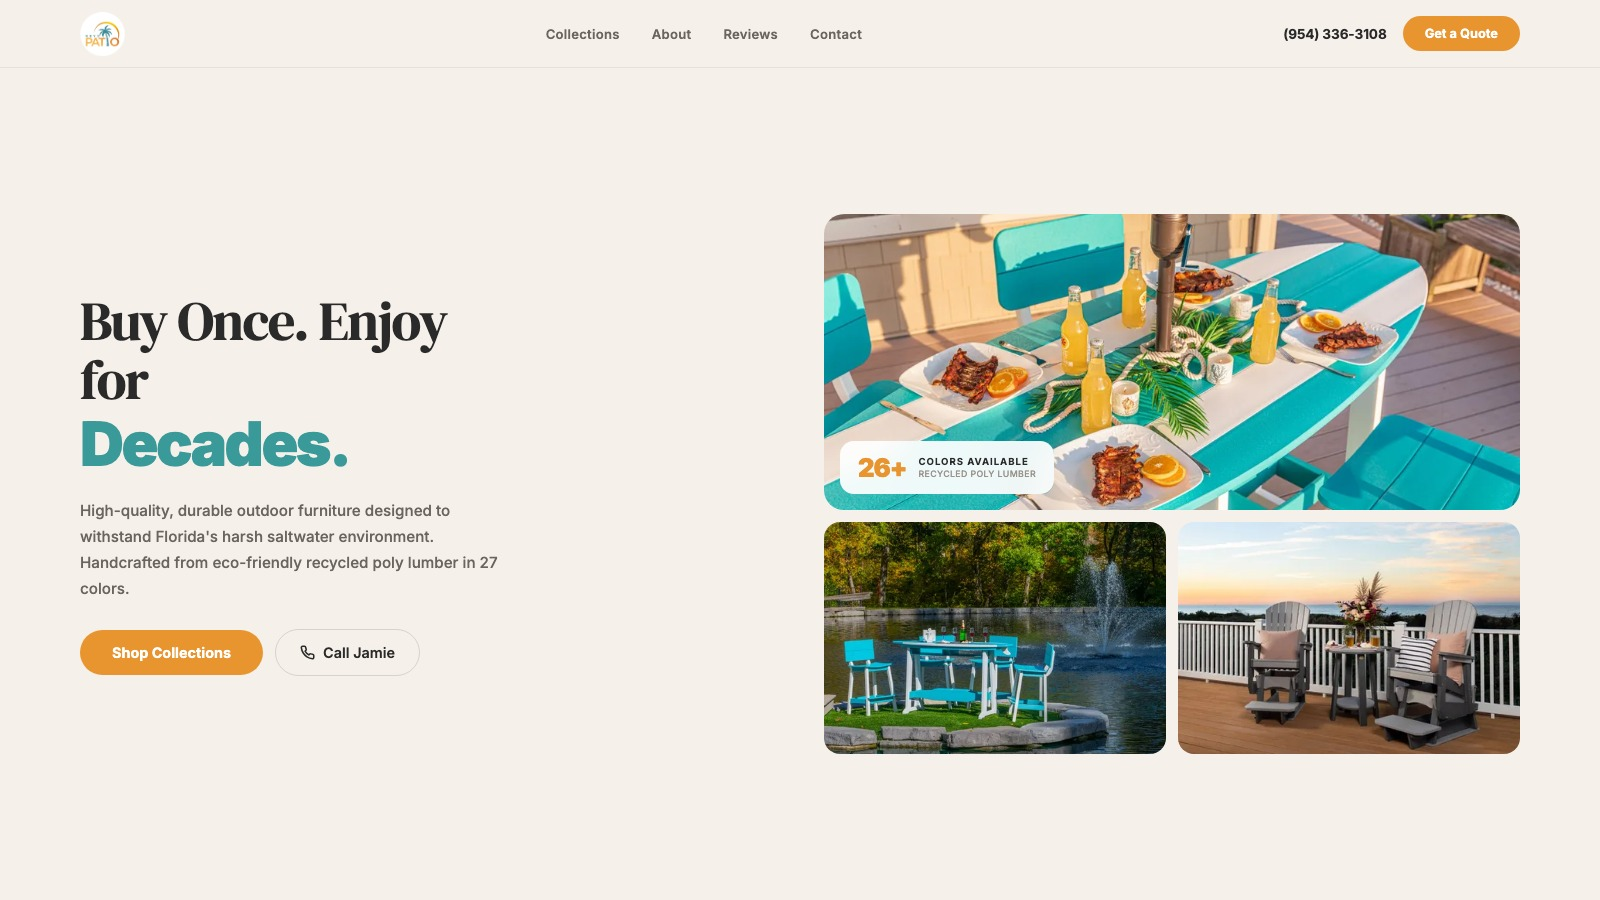
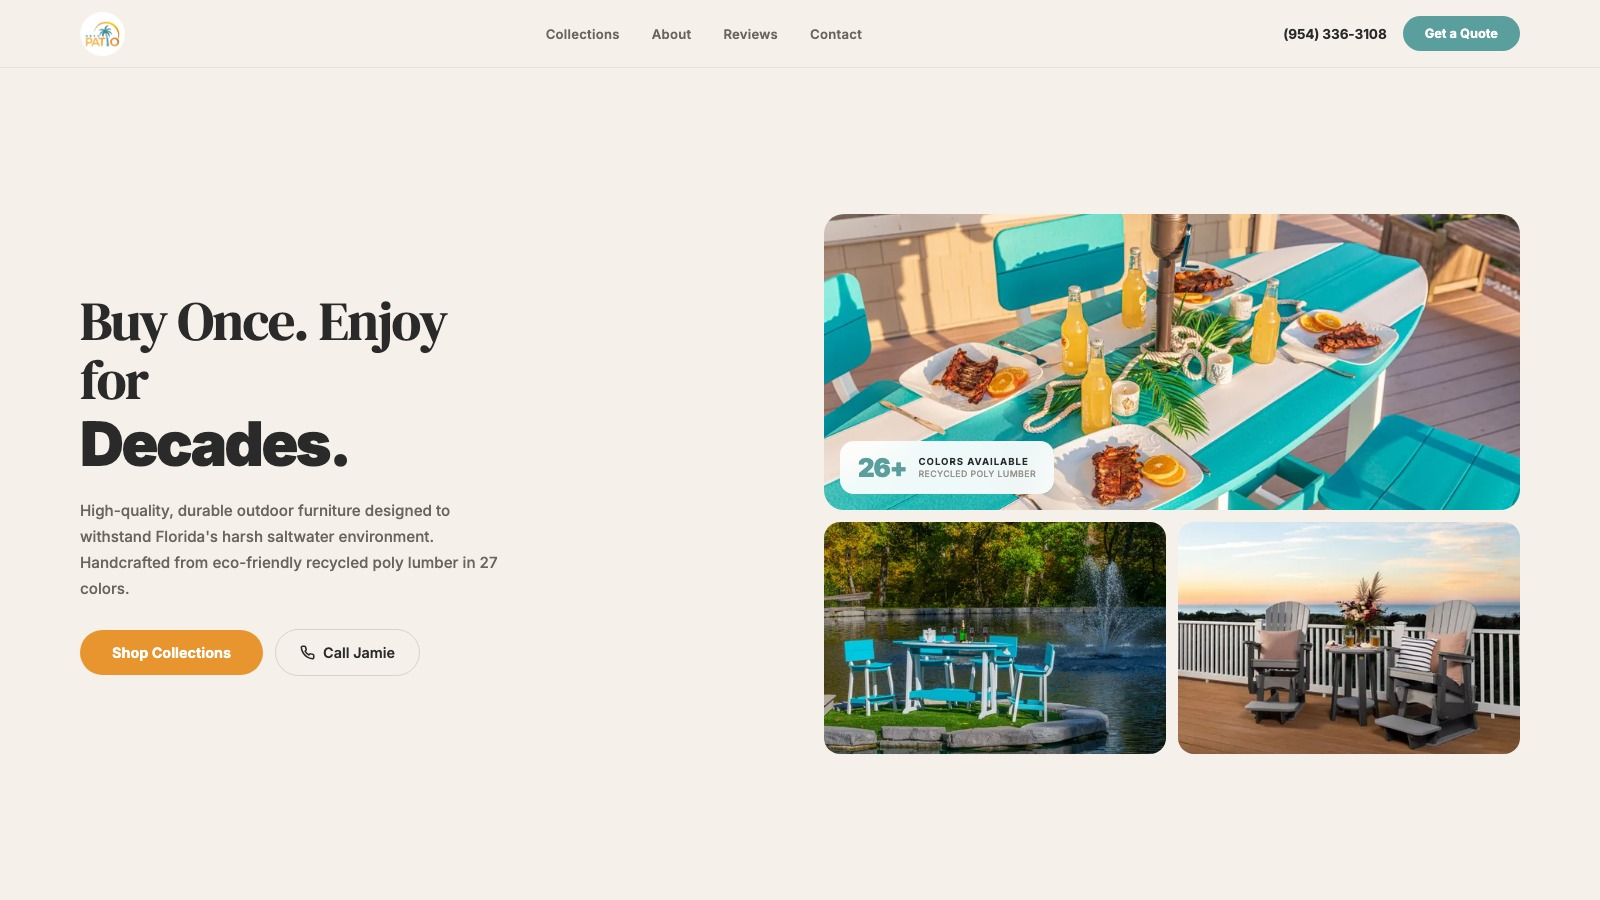
Dial back orange to a sprinkle, restore muted teal as primary
Teal (#5a9e9e) back as dominant accent: nav CTA, counter badge, stars,
carousel dots, quality icons, category hovers, featured band.
Orange (#e89530) kept only on primary action CTAs (Shop Collections,
Email Jamie & Missy) for warmth without overpowering.

Changed region(s): [[0.0312, 0.4667, 0.2188, 0.5289], [0.875, 0.0, 0.9688, 0.0622], [0.5312, 0.4978, 0.5625, 0.5289]]

diff --git a/p/keys-patio-key-largo/index.html b/p/keys-patio-key-largo/index.html
@@ -18,9 +18,9 @@
 :root{
   --cream:#f5f0ea;
   --cream-deep:#ede6dc;
-  --teal:#3a9a9a;
+  --teal:#5a9e9e;
   --teal-muted:#7fb5b0;
-  --teal-hover:#2d8585;
+  --teal-hover:#4a8b8b;
   --orange:#e89530;
   --orange-hover:#d4852a;
   --orange-muted:rgba(232,149,48,.12);
@@ -55,8 +55,8 @@ nav{height:68px;background:var(--cream);display:flex;align-items:center;justify-
 .nav-right{display:flex;align-items:center;gap:16px}
 .nav-phone{color:var(--dark);font-weight:700;font-size:.85rem;text-decoration:none;letter-spacing:-.01em}
 .nav-phone:hover{color:var(--teal)}
-.nav-cta{background:var(--orange);color:var(--white);font-weight:700;font-size:.8rem;padding:10px 22px;border-radius:99px;text-decoration:none;transition:all .25s}
-.nav-cta:hover{background:var(--orange-hover);box-shadow:0 4px 16px rgba(232,149,48,.25)}
+.nav-cta{background:var(--teal);color:var(--white);font-weight:700;font-size:.8rem;padding:10px 22px;border-radius:99px;text-decoration:none;transition:all .25s}
+.nav-cta:hover{background:var(--teal-hover);box-shadow:0 4px 16px rgba(90,158,158,.25)}
 
 /* HERO */
 .hero{height:calc(100vh - 68px);display:grid;grid-template-columns:1fr 1fr;align-items:center;gap:48px;padding:0 clamp(24px,5vw,80px);position:relative;overflow:hidden}
@@ -64,7 +64,7 @@ nav{height:68px;background:var(--cream);display:flex;align-items:center;justify-
 /* HERO LEFT — copy */
 .hero-copy{display:flex;flex-direction:column;justify-content:center}
 .hero-h1{font-family:'DM Serif Display',serif;font-size:clamp(2.2rem,3.8vw,3.4rem);font-weight:400;line-height:1.1;color:var(--dark);letter-spacing:-.025em;margin-bottom:20px}
-.hero-h1 strong{font-family:'Inter',sans-serif;font-weight:900;font-size:clamp(2.4rem,4.2vw,3.8rem);display:block;letter-spacing:-.04em;color:var(--teal)}
+.hero-h1 strong{font-family:'Inter',sans-serif;font-weight:900;font-size:clamp(2.4rem,4.2vw,3.8rem);display:block;letter-spacing:-.04em;color:var(--dark)}
 .hero-sub{color:var(--warm-gray);font-size:.95rem;line-height:1.7;max-width:440px;margin-bottom:28px;font-weight:500}
 .btn-pill{display:inline-flex;align-items:center;gap:8px;background:var(--teal);color:var(--white);font-weight:700;font-size:.9rem;padding:14px 32px;border-radius:99px;text-decoration:none;transition:all .25s;border:none;cursor:pointer}
 .btn-pill:hover{background:var(--teal-hover);box-shadow:0 8px 24px rgba(58,154,154,.2);transform:translateY(-1px)}
@@ -81,7 +81,7 @@ nav{height:68px;background:var(--cream);display:flex;align-items:center;justify-
 .hero-photo-sm{border-radius:16px;overflow:hidden}
 .hero-photo-sm img{width:100%;height:100%;object-fit:cover}
 .hero-badge{position:absolute;bottom:16px;left:16px;background:rgba(255,255,255,.92);backdrop-filter:blur(12px);-webkit-backdrop-filter:blur(12px);border-radius:14px;padding:14px 18px;display:flex;align-items:center;gap:12px;z-index:3}
-.hero-badge-num{font-family:'Inter',sans-serif;font-size:1.6rem;font-weight:900;color:var(--orange);letter-spacing:-.04em;line-height:1}
+.hero-badge-num{font-family:'Inter',sans-serif;font-size:1.6rem;font-weight:900;color:var(--teal);letter-spacing:-.04em;line-height:1}
 .hero-badge-text{display:flex;flex-direction:column}
 .hero-badge-label{font-size:.6rem;font-weight:700;letter-spacing:.1em;text-transform:uppercase;color:var(--dark);line-height:1.3}
 .hero-badge-sub{font-size:.55rem;font-weight:500;color:var(--muted);letter-spacing:.04em;text-transform:uppercase}
@@ -90,7 +90,7 @@ nav{height:68px;background:var(--cream);display:flex;align-items:center;justify-
 .stats{padding:48px clamp(24px,5vw,80px);display:flex;align-items:flex-start;gap:clamp(32px,6vw,80px)}
 .stat{display:flex;flex-direction:column}
 .stat-num{font-family:'Inter',sans-serif;font-size:clamp(2rem,3.4vw,2.8rem);font-weight:900;color:var(--dark);letter-spacing:-.04em;line-height:1}
-.stat-num .accent{color:var(--orange)}
+.stat-num .accent{color:var(--teal)}
 .stat-label{font-size:.72rem;font-weight:600;color:var(--muted);margin-top:4px;letter-spacing:.02em;line-height:1.4}
 
 /* FEATURED BAND */
@@ -109,12 +109,12 @@ nav{height:68px;background:var(--cream);display:flex;align-items:center;justify-
 .section-header h2{font-family:'DM Serif Display',serif;font-size:clamp(1.5rem,2.4vw,2rem);font-weight:400;color:var(--dark);letter-spacing:-.02em}
 .section-header-nav{display:flex;gap:8px}
 .section-header-nav button{width:36px;height:36px;border-radius:50%;border:1.5px solid var(--line);background:var(--cream);cursor:pointer;display:flex;align-items:center;justify-content:center;transition:all .2s;color:var(--dark)}
-.section-header-nav button:hover{border-color:var(--orange);color:var(--orange)}
+.section-header-nav button:hover{border-color:var(--teal);color:var(--teal)}
 .section-header-nav button svg{width:14px;height:14px}
 .cat-grid{display:grid;grid-template-columns:repeat(4,1fr);gap:32px}
 .cat-card{text-align:center;cursor:pointer}
 .cat-circle{width:100%;aspect-ratio:1;border-radius:50%;overflow:hidden;margin-bottom:16px;transition:transform .3s;background:var(--cream-deep);border:3px solid transparent}
-.cat-card:hover .cat-circle{transform:scale(1.03);border-color:var(--orange)}
+.cat-card:hover .cat-circle{transform:scale(1.03);border-color:var(--teal)}
 .cat-circle img{width:100%;height:100%;object-fit:cover}
 .cat-name{font-weight:700;font-size:.9rem;color:var(--dark);letter-spacing:-.01em}
 
@@ -125,8 +125,8 @@ nav{height:68px;background:var(--cream);display:flex;align-items:center;justify-
 .quality-grid{display:grid;grid-template-columns:repeat(4,1fr);gap:20px;max-width:1100px;margin:0 auto}
 .quality-item{text-align:center;padding:24px 16px;border-radius:16px;background:var(--cream);border:1px solid var(--line);transition:all .3s}
 .quality-item:hover{box-shadow:0 4px 20px rgba(0,0,0,.06);transform:translateY(-2px)}
-.quality-icon{width:40px;height:40px;border-radius:50%;background:var(--orange-muted);display:flex;align-items:center;justify-content:center;margin:0 auto 12px}
-.quality-icon svg{width:18px;height:18px;stroke:var(--orange);fill:none;stroke-width:2;stroke-linecap:round;stroke-linejoin:round}
+.quality-icon{width:40px;height:40px;border-radius:50%;background:rgba(90,158,158,.12);display:flex;align-items:center;justify-content:center;margin:0 auto 12px}
+.quality-icon svg{width:18px;height:18px;stroke:var(--teal);fill:none;stroke-width:2;stroke-linecap:round;stroke-linejoin:round}
 .quality-item h3{font-size:.82rem;font-weight:700;color:var(--dark);margin-bottom:4px}
 .quality-item p{font-size:.75rem;color:var(--muted);line-height:1.5;font-weight:500}
 
@@ -137,7 +137,7 @@ nav{height:68px;background:var(--cream);display:flex;align-items:center;justify-
 .carousel-track{display:flex;transition:transform .45s cubic-bezier(.22,1,.36,1)}
 .review-card{flex:0 0 100%;padding:0 20px}
 .review-card-inner{background:var(--white);border-radius:20px;padding:32px;border:1px solid var(--line)}
-.review-stars{color:var(--orange);font-size:.85rem;letter-spacing:2px;margin-bottom:12px}
+.review-stars{color:var(--teal);font-size:.85rem;letter-spacing:2px;margin-bottom:12px}
 .review-text{font-size:.95rem;line-height:1.7;color:var(--dark);margin-bottom:16px;font-style:italic}
 .review-name{font-weight:700;font-size:.82rem;color:var(--dark)}
 .carousel-nav{display:flex;justify-content:center;gap:12px;margin-top:24px}
@@ -146,7 +146,7 @@ nav{height:68px;background:var(--cream);display:flex;align-items:center;justify-
 .carousel-btn svg{width:14px;height:14px;fill:currentColor}
 .carousel-dots{display:flex;gap:6px;align-items:center;margin:0 8px}
 .carousel-dot{width:7px;height:7px;border-radius:50%;background:var(--line);transition:all .3s}
-.carousel-dot.active{background:var(--orange);transform:scale(1.2)}
+.carousel-dot.active{background:var(--teal);transform:scale(1.2)}
 
 /* ABOUT */
 .about{padding:80px clamp(24px,5vw,80px);display:grid;grid-template-columns:1fr 1fr;gap:64px;align-items:center}
@@ -158,13 +158,13 @@ nav{height:68px;background:var(--cream);display:flex;align-items:center;justify-
 
 /* CTA */
 .cta-section{margin:0 clamp(24px,5vw,80px) 64px;background:var(--dark);border-radius:32px;padding:80px 64px;text-align:center;position:relative;overflow:hidden}
-.cta-section::before{content:'';position:absolute;inset:0;background:radial-gradient(ellipse at center,rgba(232,149,48,.1) 0%,transparent 70%)}
+.cta-section::before{content:'';position:absolute;inset:0;background:radial-gradient(ellipse at center,rgba(90,158,158,.15) 0%,transparent 70%)}
 .cta-inner{position:relative;z-index:2;max-width:560px;margin:0 auto}
 .cta-section h2{font-family:'DM Serif Display',serif;font-size:clamp(1.8rem,3vw,2.4rem);font-weight:400;color:var(--white);margin-bottom:16px;letter-spacing:-.02em}
 .cta-section p{color:rgba(255,255,255,.6);font-size:.95rem;line-height:1.7;margin-bottom:32px;font-weight:500}
 .cta-section .btn-pill{font-size:1rem;padding:16px 36px}
 .cta-phone-link{display:block;margin-top:16px;color:rgba(255,255,255,.4);font-size:.85rem;text-decoration:none;font-weight:600;transition:color .2s}
-.cta-phone-link:hover{color:var(--orange)}
+.cta-phone-link:hover{color:var(--teal)}
 
 /* FOOTER */
 footer{padding:32px clamp(24px,5vw,80px);display:flex;align-items:center;justify-content:space-between;border-top:1px solid var(--line)}
